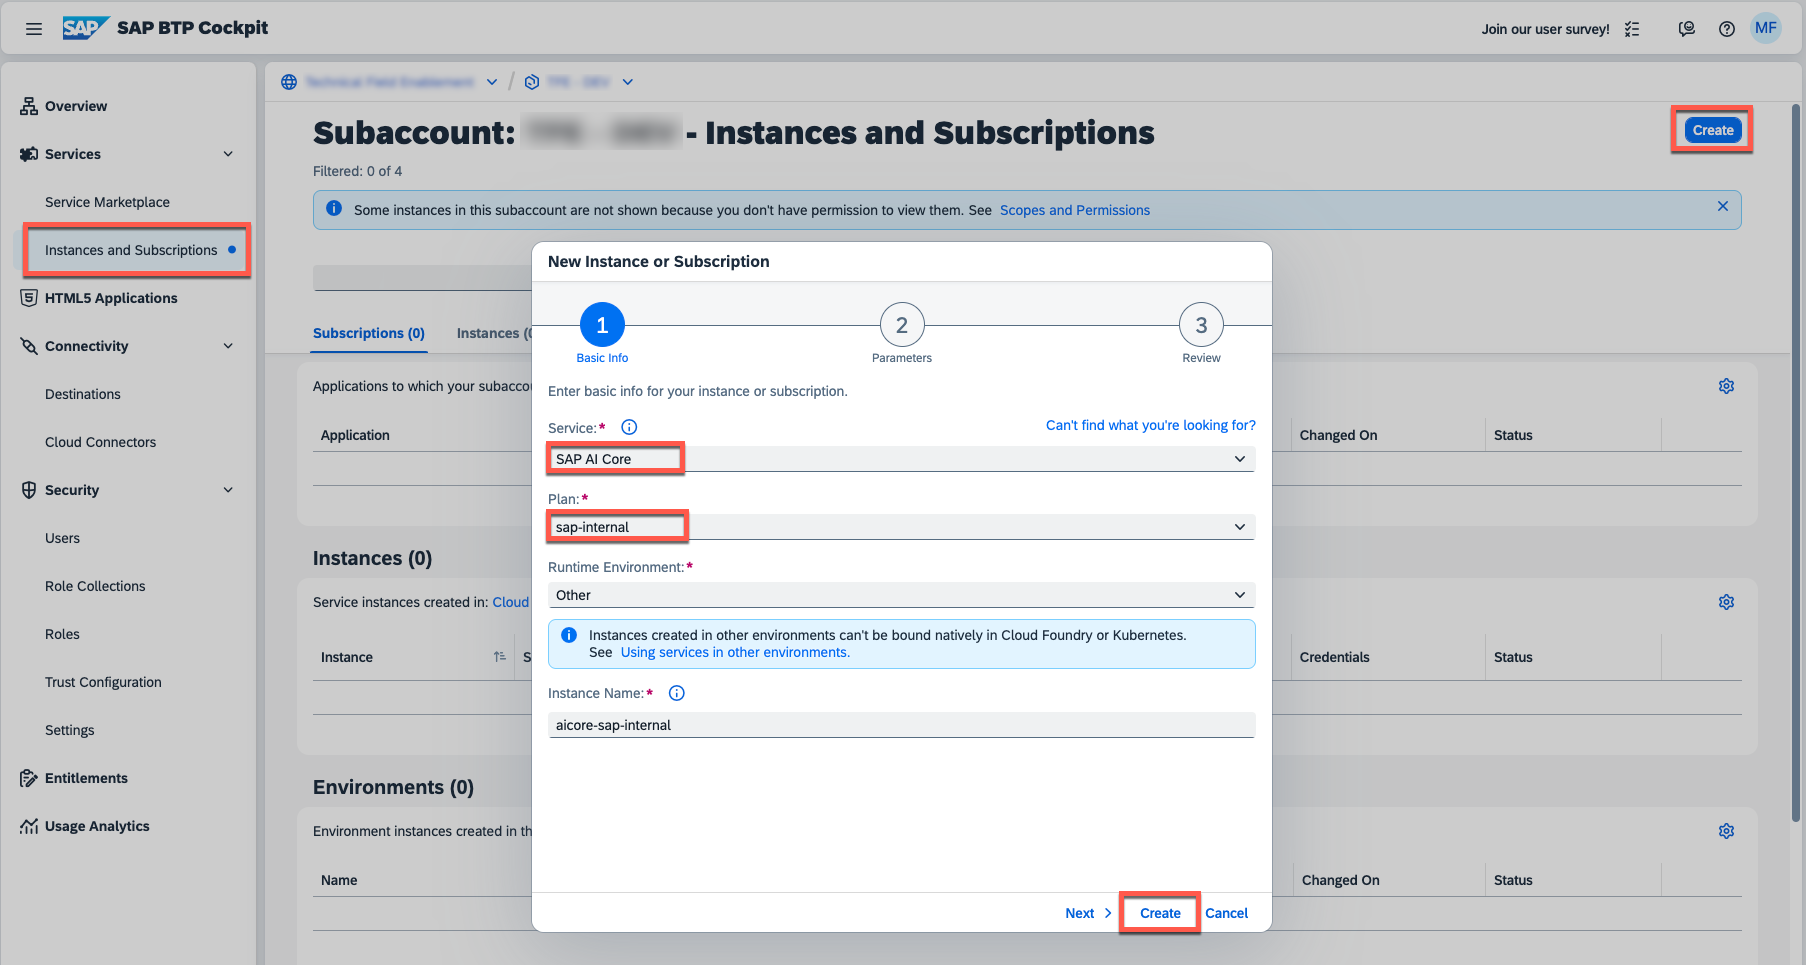
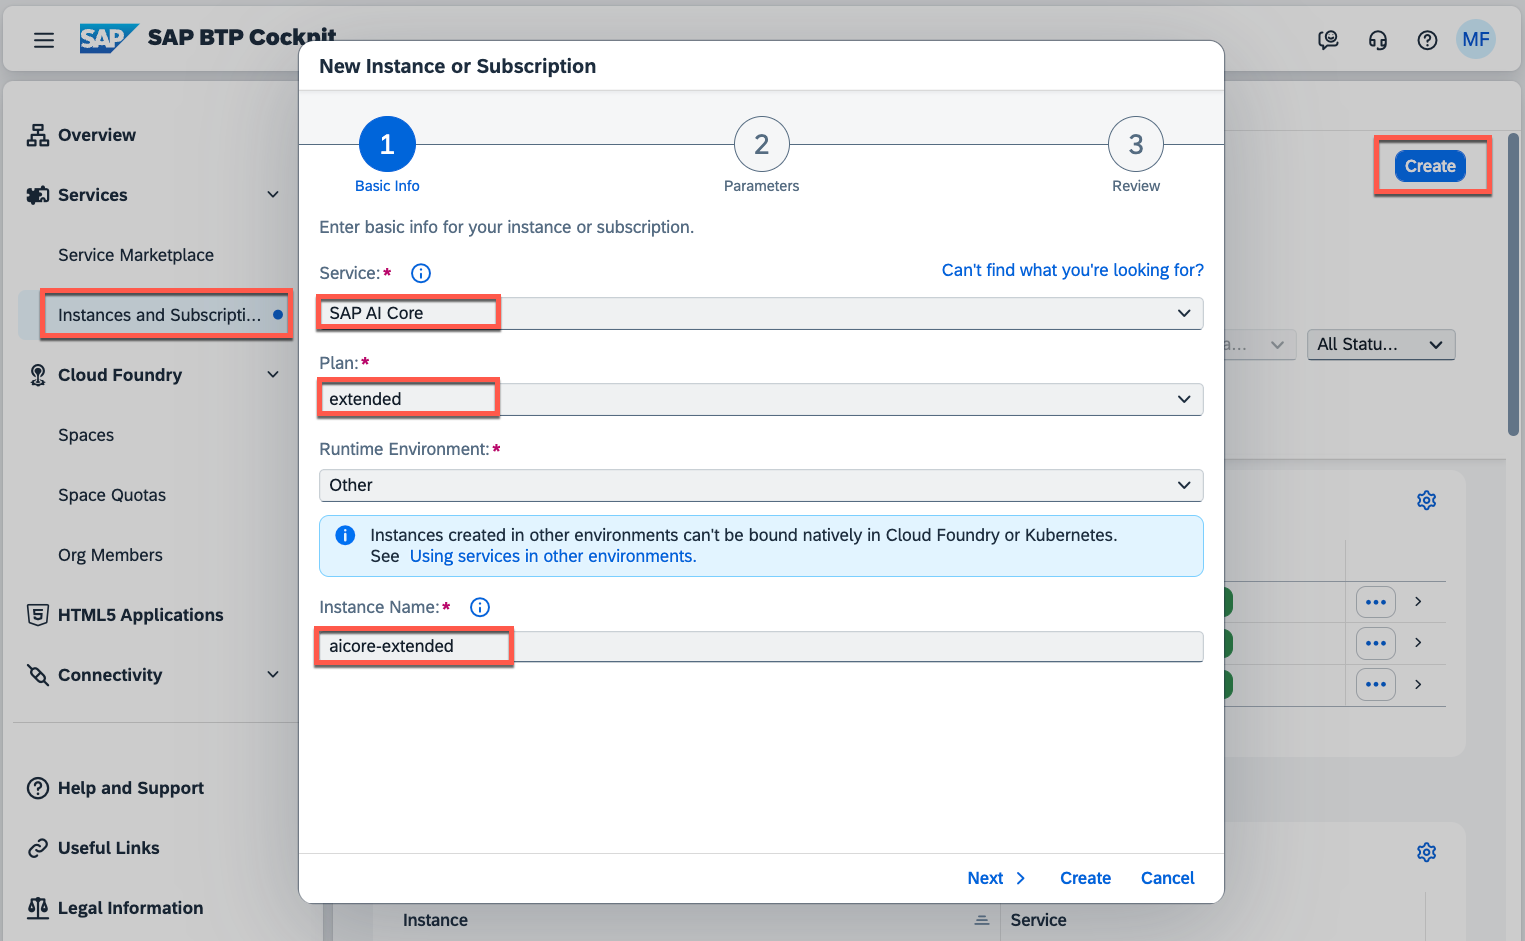
Update docu - generative AI hub extended

diff --git a/docs/tutorial/2-setup/4-generativeAIhub.md b/docs/tutorial/2-setup/4-generativeAIhub.md
@@ -1,6 +1,6 @@
 #  Setup the generative AI hub in SAP AI Core
 
-The generative AI hub which is part of the SAP AI Core offering, allows you to connect your application to various Large Language Models such as GTP 3.5 and GTP 4, as well as respective embedding models. In this chapter you will learn how to setup the respective SAP AI Core component in your SAP BTP Global Account. In the multi-tenant scenario, the respective objects such as *Configurations* and *Deployments* will be generated automatically once a new tenant is being onboarded. This feature is planned to be delivered for the Single-Tenant scenario too. 
+The generative AI hub which is part of the SAP AI Core offering, allows you to connect your application to various Large Language Models such as GTP 3.5 and GTP 4, as well as respective embedding models. In this chapter you will learn how to setup the respective SAP AI Core component in your SAP BTP Global Account. In the multitenant scenario, the respective objects such as *Configurations* and *Deployments* will be generated automatically once a new tenant is being onboarded. This feature is planned to be delivered for the Single-Tenant scenario too. 
 
 - [Setup the generative AI hub in SAP AI Core](#setup-the-generative-ai-hub-in-sap-ai-core)
   - [Create Service Instance](#create-service-instance)
@@ -11,15 +11,17 @@ The generative AI hub which is part of the SAP AI Core offering, allows you to c
 
 1. As described in on the previous chapters, please ensure you assigned the following entitlement to your subaccount.
 
-  - **SAP AI Core** - sap-internal 
+  - **SAP AI Core** - extended
 
-2. In your subaccount, please create a new service instance for the SAP AI Core **sap-internal** service entitlement. 
+    [<img src="./images/GAH_CreateInstance00.png" width="500"/>](./images/GAH_CreateInstance00.png?raw=true)
+
+2. In your subaccount, please create a new service instance for the SAP AI Core **extended** service entitlement. 
 
     > **Hint** - In our scenario we are using the **Other** environment type, as we are consuming the SAP AI Core APIs via a dedicated destination. Alternatively, you can also use the **Cloud Foundry** or **Kyma** environment and **bind** the service instance. 
 
     [<img src="./images/GAH_CreateInstance01.png" width="500"/>](./images/GAH_CreateInstance01.png?raw=true)
 
-3. Create a new **Service Binding** for the SAP AI Core **sap-internal** service instance, which will be used by our sample application. 
+3. Create a new **Service Binding** for the SAP AI Core **extended** service instance, which will be used by our sample application. 
 
     [<img src="./images/GAH_CreateInstance02.png" width="400"/>](./images/GAH_CreateInstance02.png?raw=true)
 
@@ -30,7 +32,7 @@ The generative AI hub which is part of the SAP AI Core offering, allows you to c
 
 ## Create Destination
 
-Create a new destination in your Provider Subaccount using the Service Binding details of your SAP AI Core **sap-internal** service instance. This destination will be used by the multitenant SaaS application. 
+Create a new destination in your Provider Subaccount using the Service Binding details of your SAP AI Core **extended** service instance. This destination will be used by the multitenant SaaS application. 
    
 > **Important** - Please make sure to add the HTML5.Timeout property!
 
